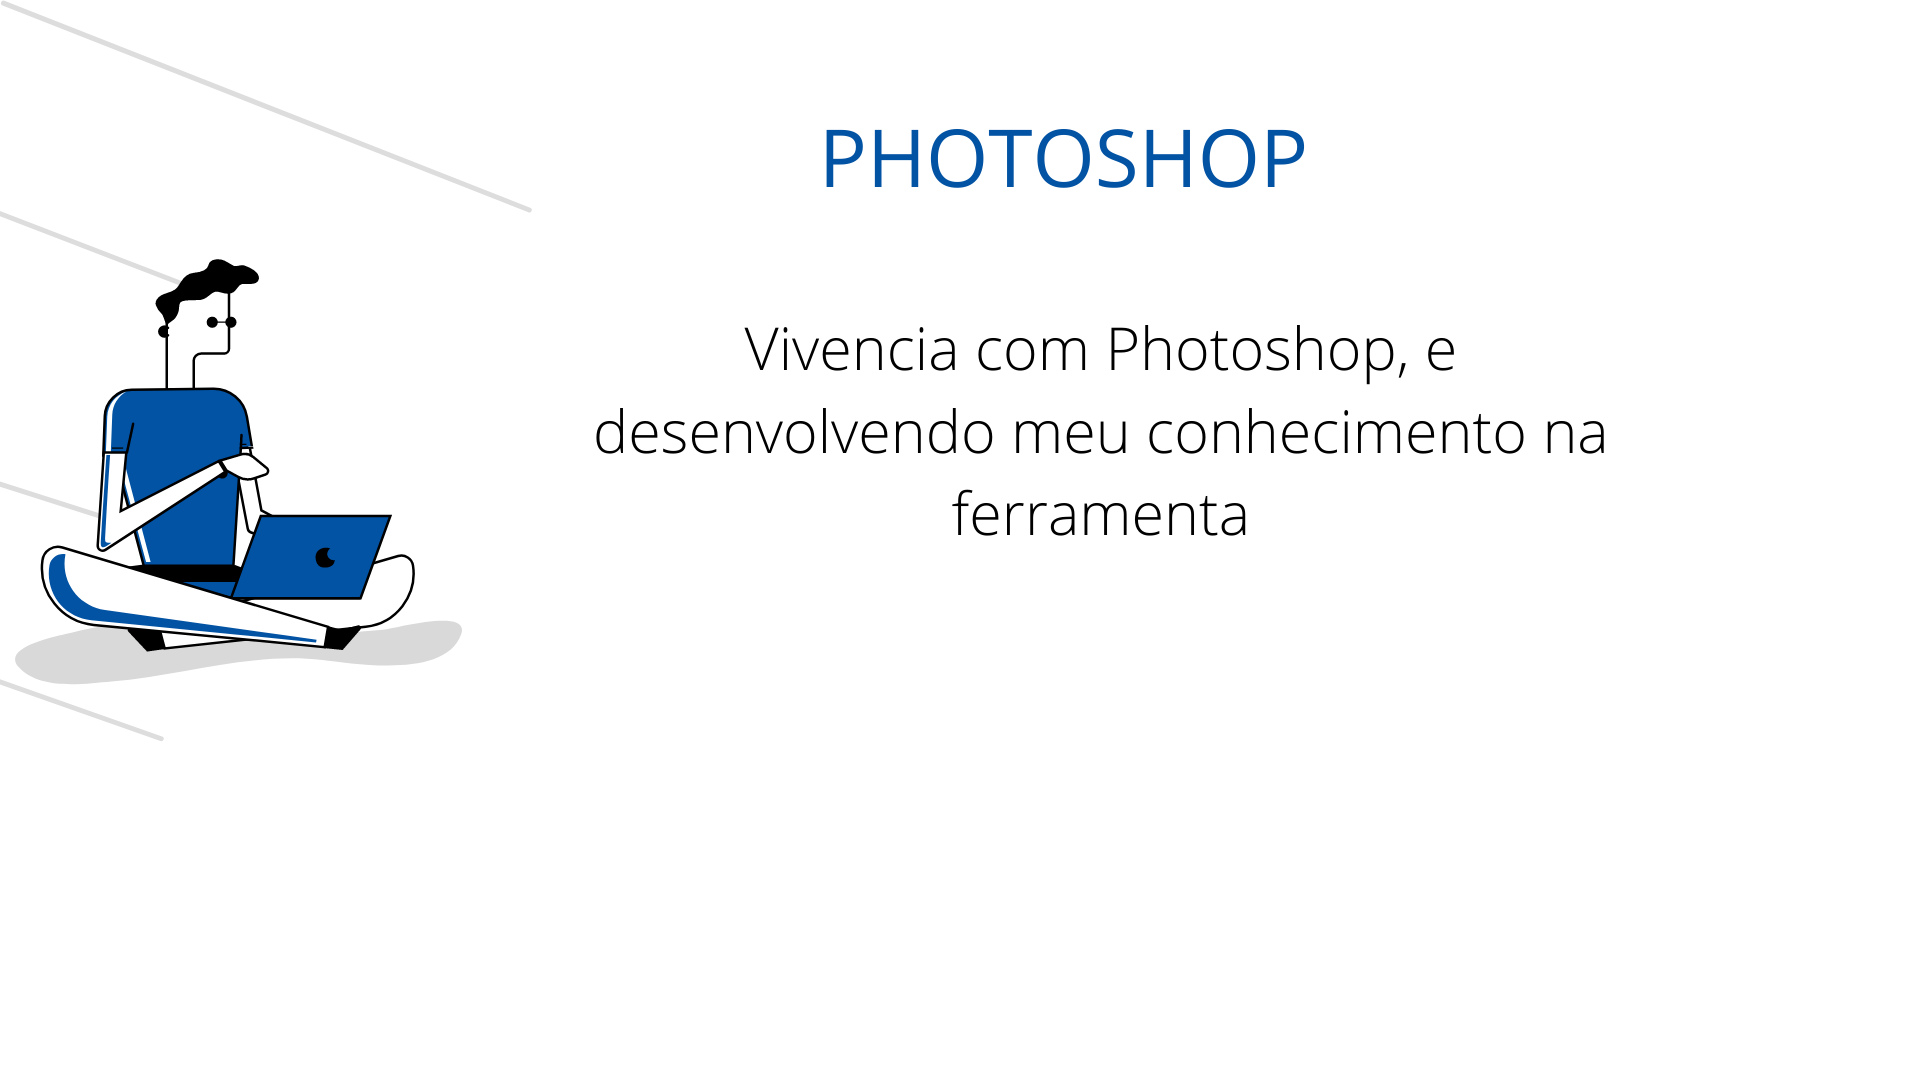
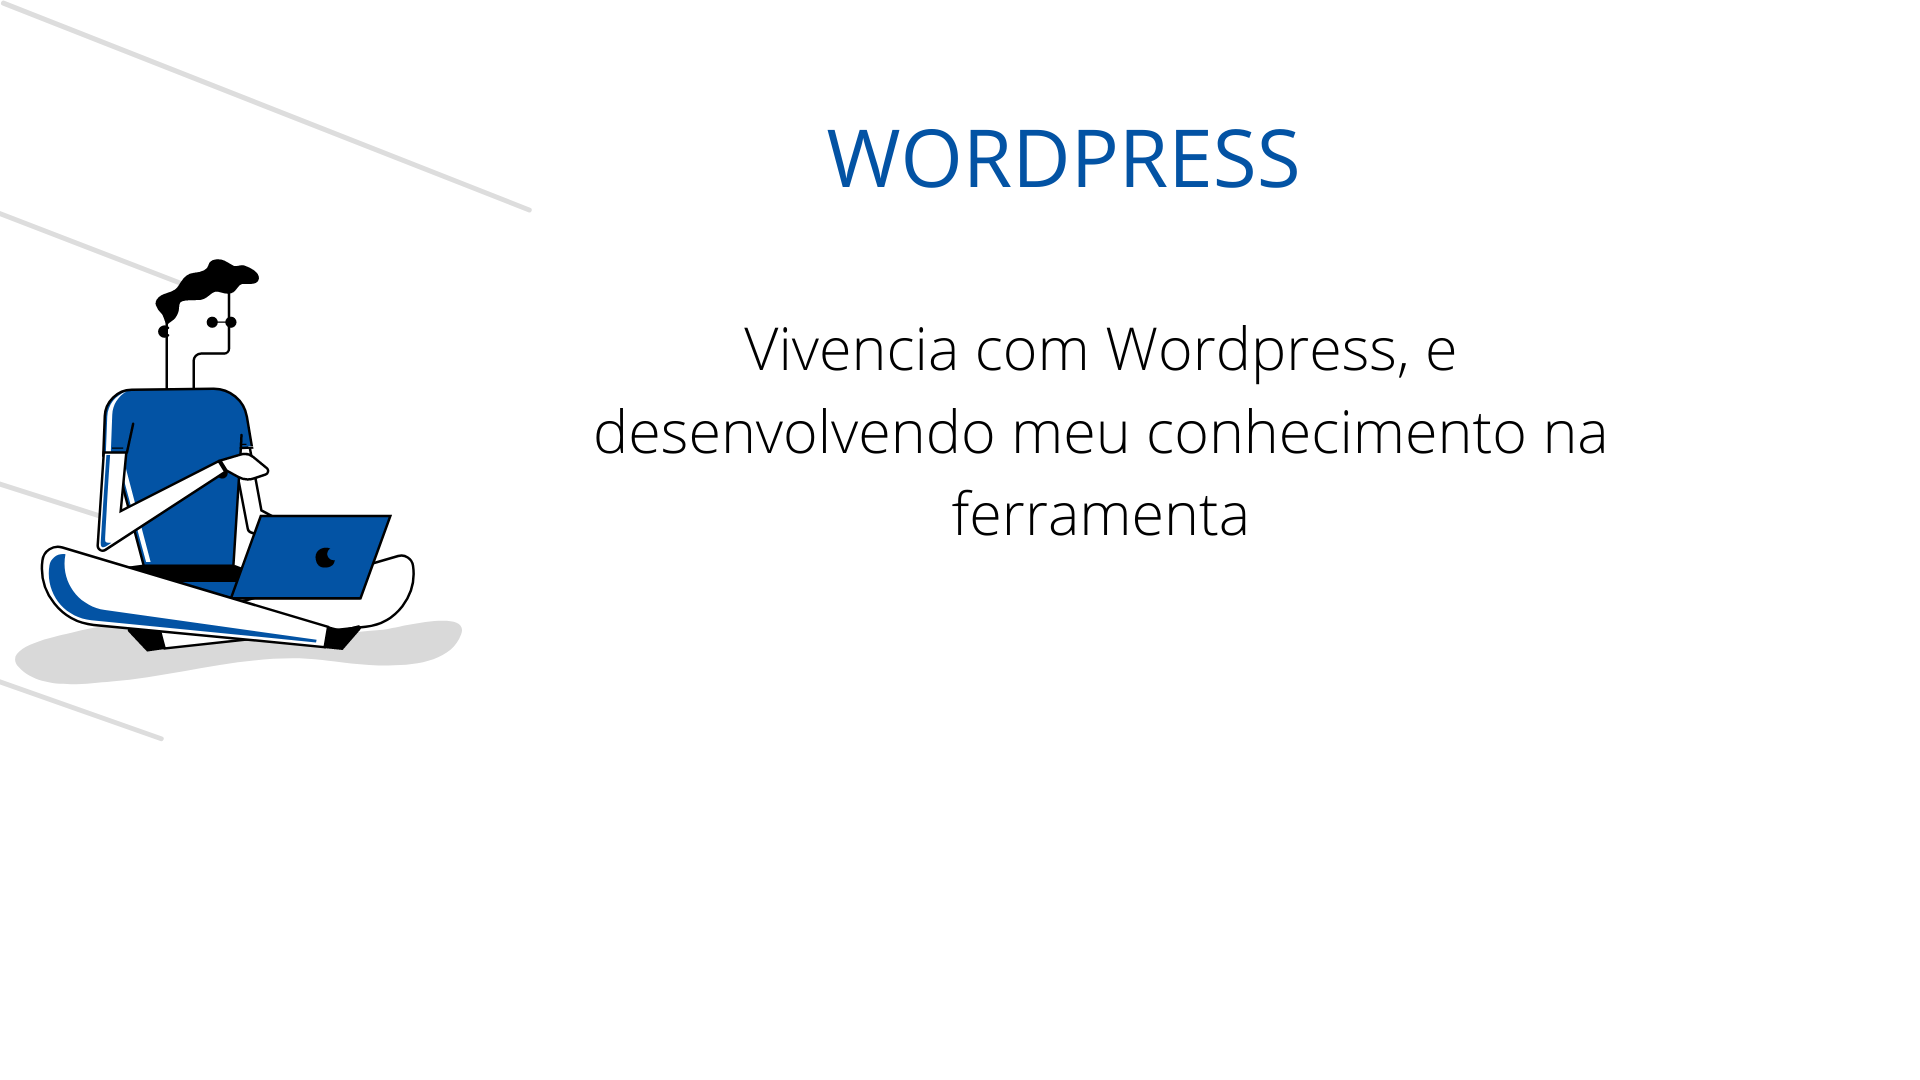
1.1

Changed region(s): [[0.4062, 0.1222, 0.6875, 0.1833], [0.5625, 0.3056, 0.75, 0.3667], [0.4062, 0.3056, 0.4375, 0.3361]]

diff --git a/app/main.html b/app/main.html
@@ -91,7 +91,7 @@
           <img src='./docs/css.png' title="CSS" alt="css" />
         </li>
         <li class="skills_items">
-          <img src='./docs/photoshop.png' title="Photoshop" alt="photoshop" />
+          <img src='./docs/wordPress.png' title="WordPress" alt="WordPress" />
         </li>
       </ul>
     </div>

diff --git a/styles/index.css b/styles/index.css
@@ -272,6 +272,10 @@ section {
     transition: ease 0.3s;
 }
 
+.skills_items img {
+    border-radius:10px;
+}
+
 .skills_items:hover{
     transform:scale(0.9) ;
 }
